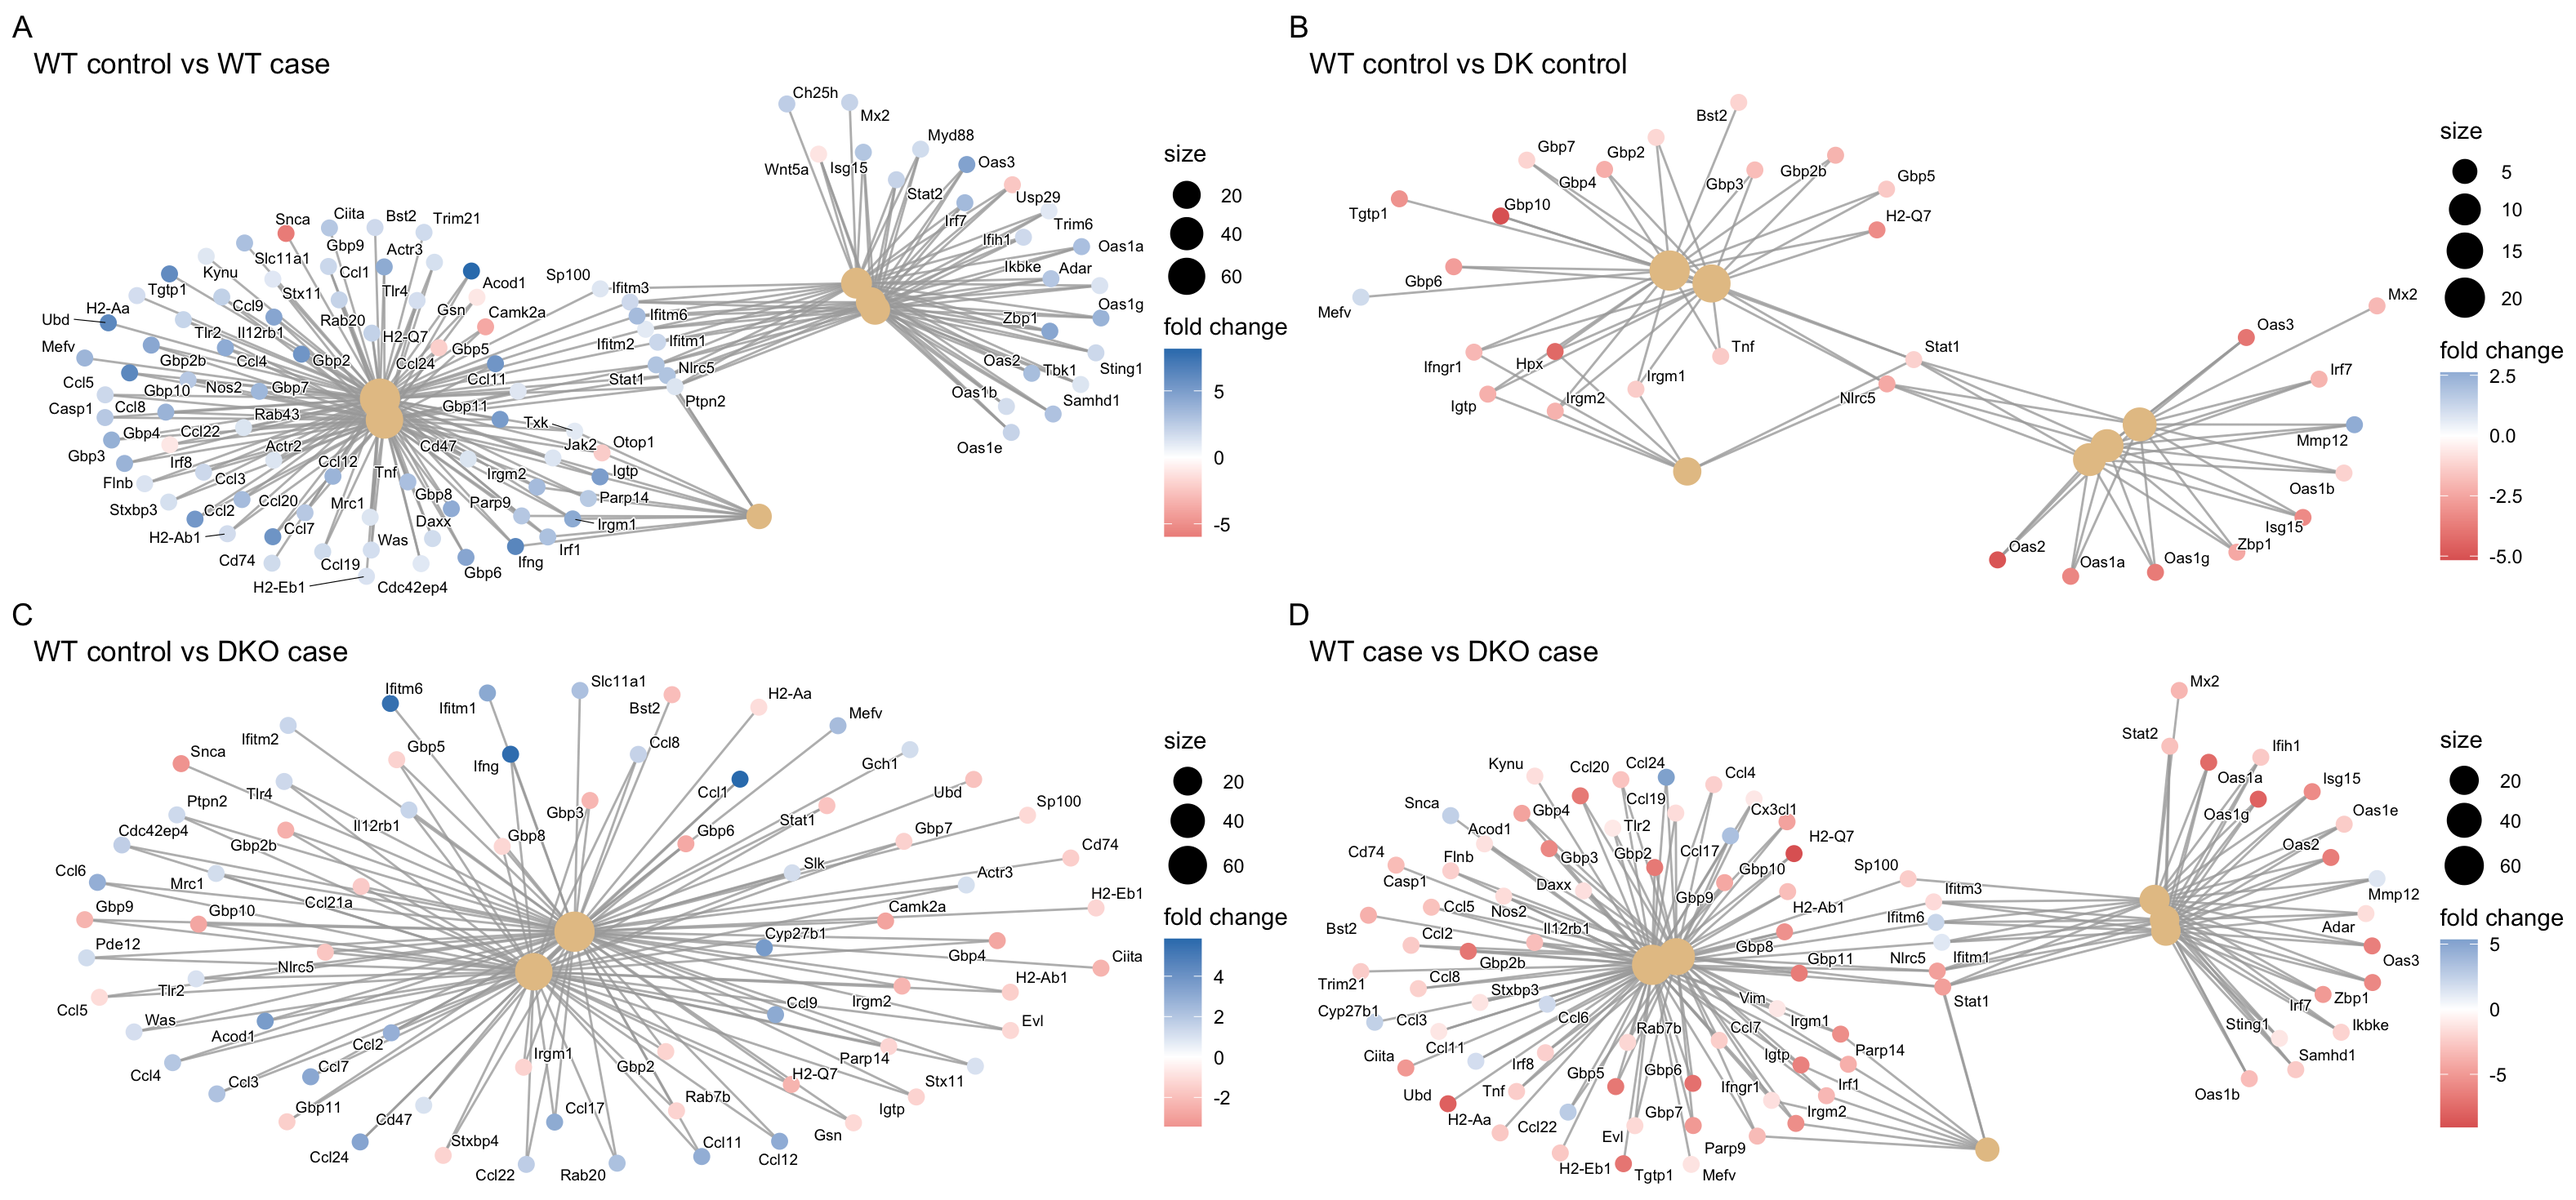
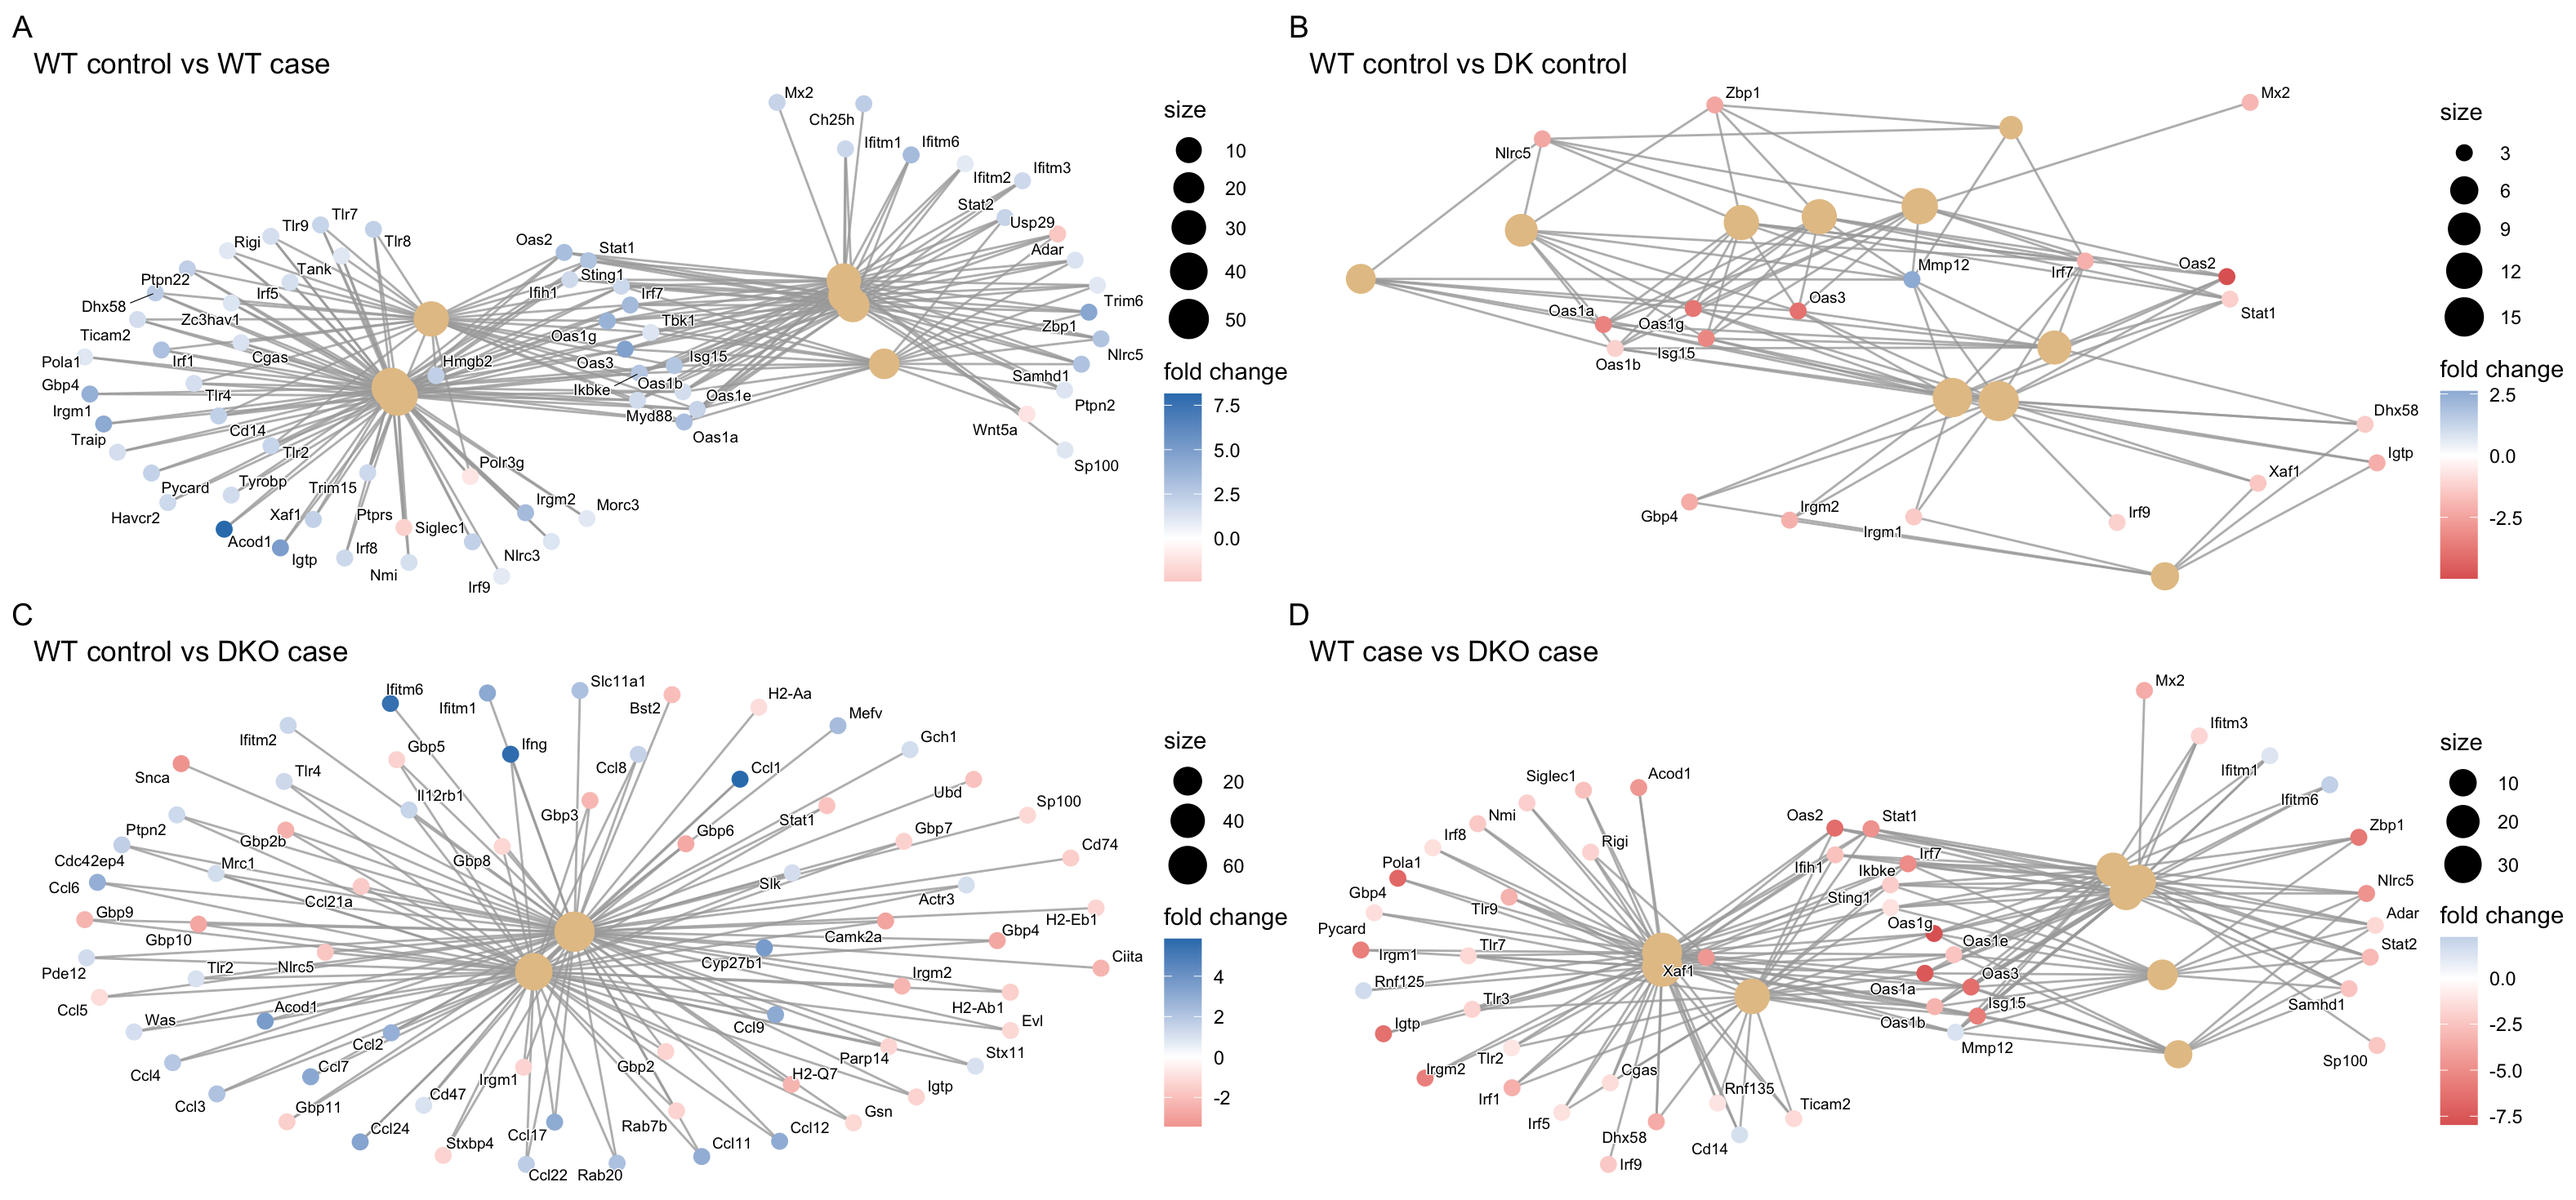
Adding Overrepresentation analysis and Edit readme.md by adding the results of this step.

diff --git a/readme.md b/readme.md
@@ -263,7 +263,11 @@ Fig. 8 : The top 10 GO terms detected per pairwise comparisons
 
 <img height="650" src="./imgs/image_5.png" width="800"/>
 
-Fig. 9 : Gene connect network per pairwise comparisons 
+Fig. 9 : Gene connect network per pairwise comparisons for Type I IFN/Ifit/Oas
+
+<img height="650" src="./imgs/image_6.png" width="800"/>
+
+Fig. 10 : Gene connect network per pairwise comparisons for Ifng/Gbp/Antigen presentation
 
 ## Project structure
 
